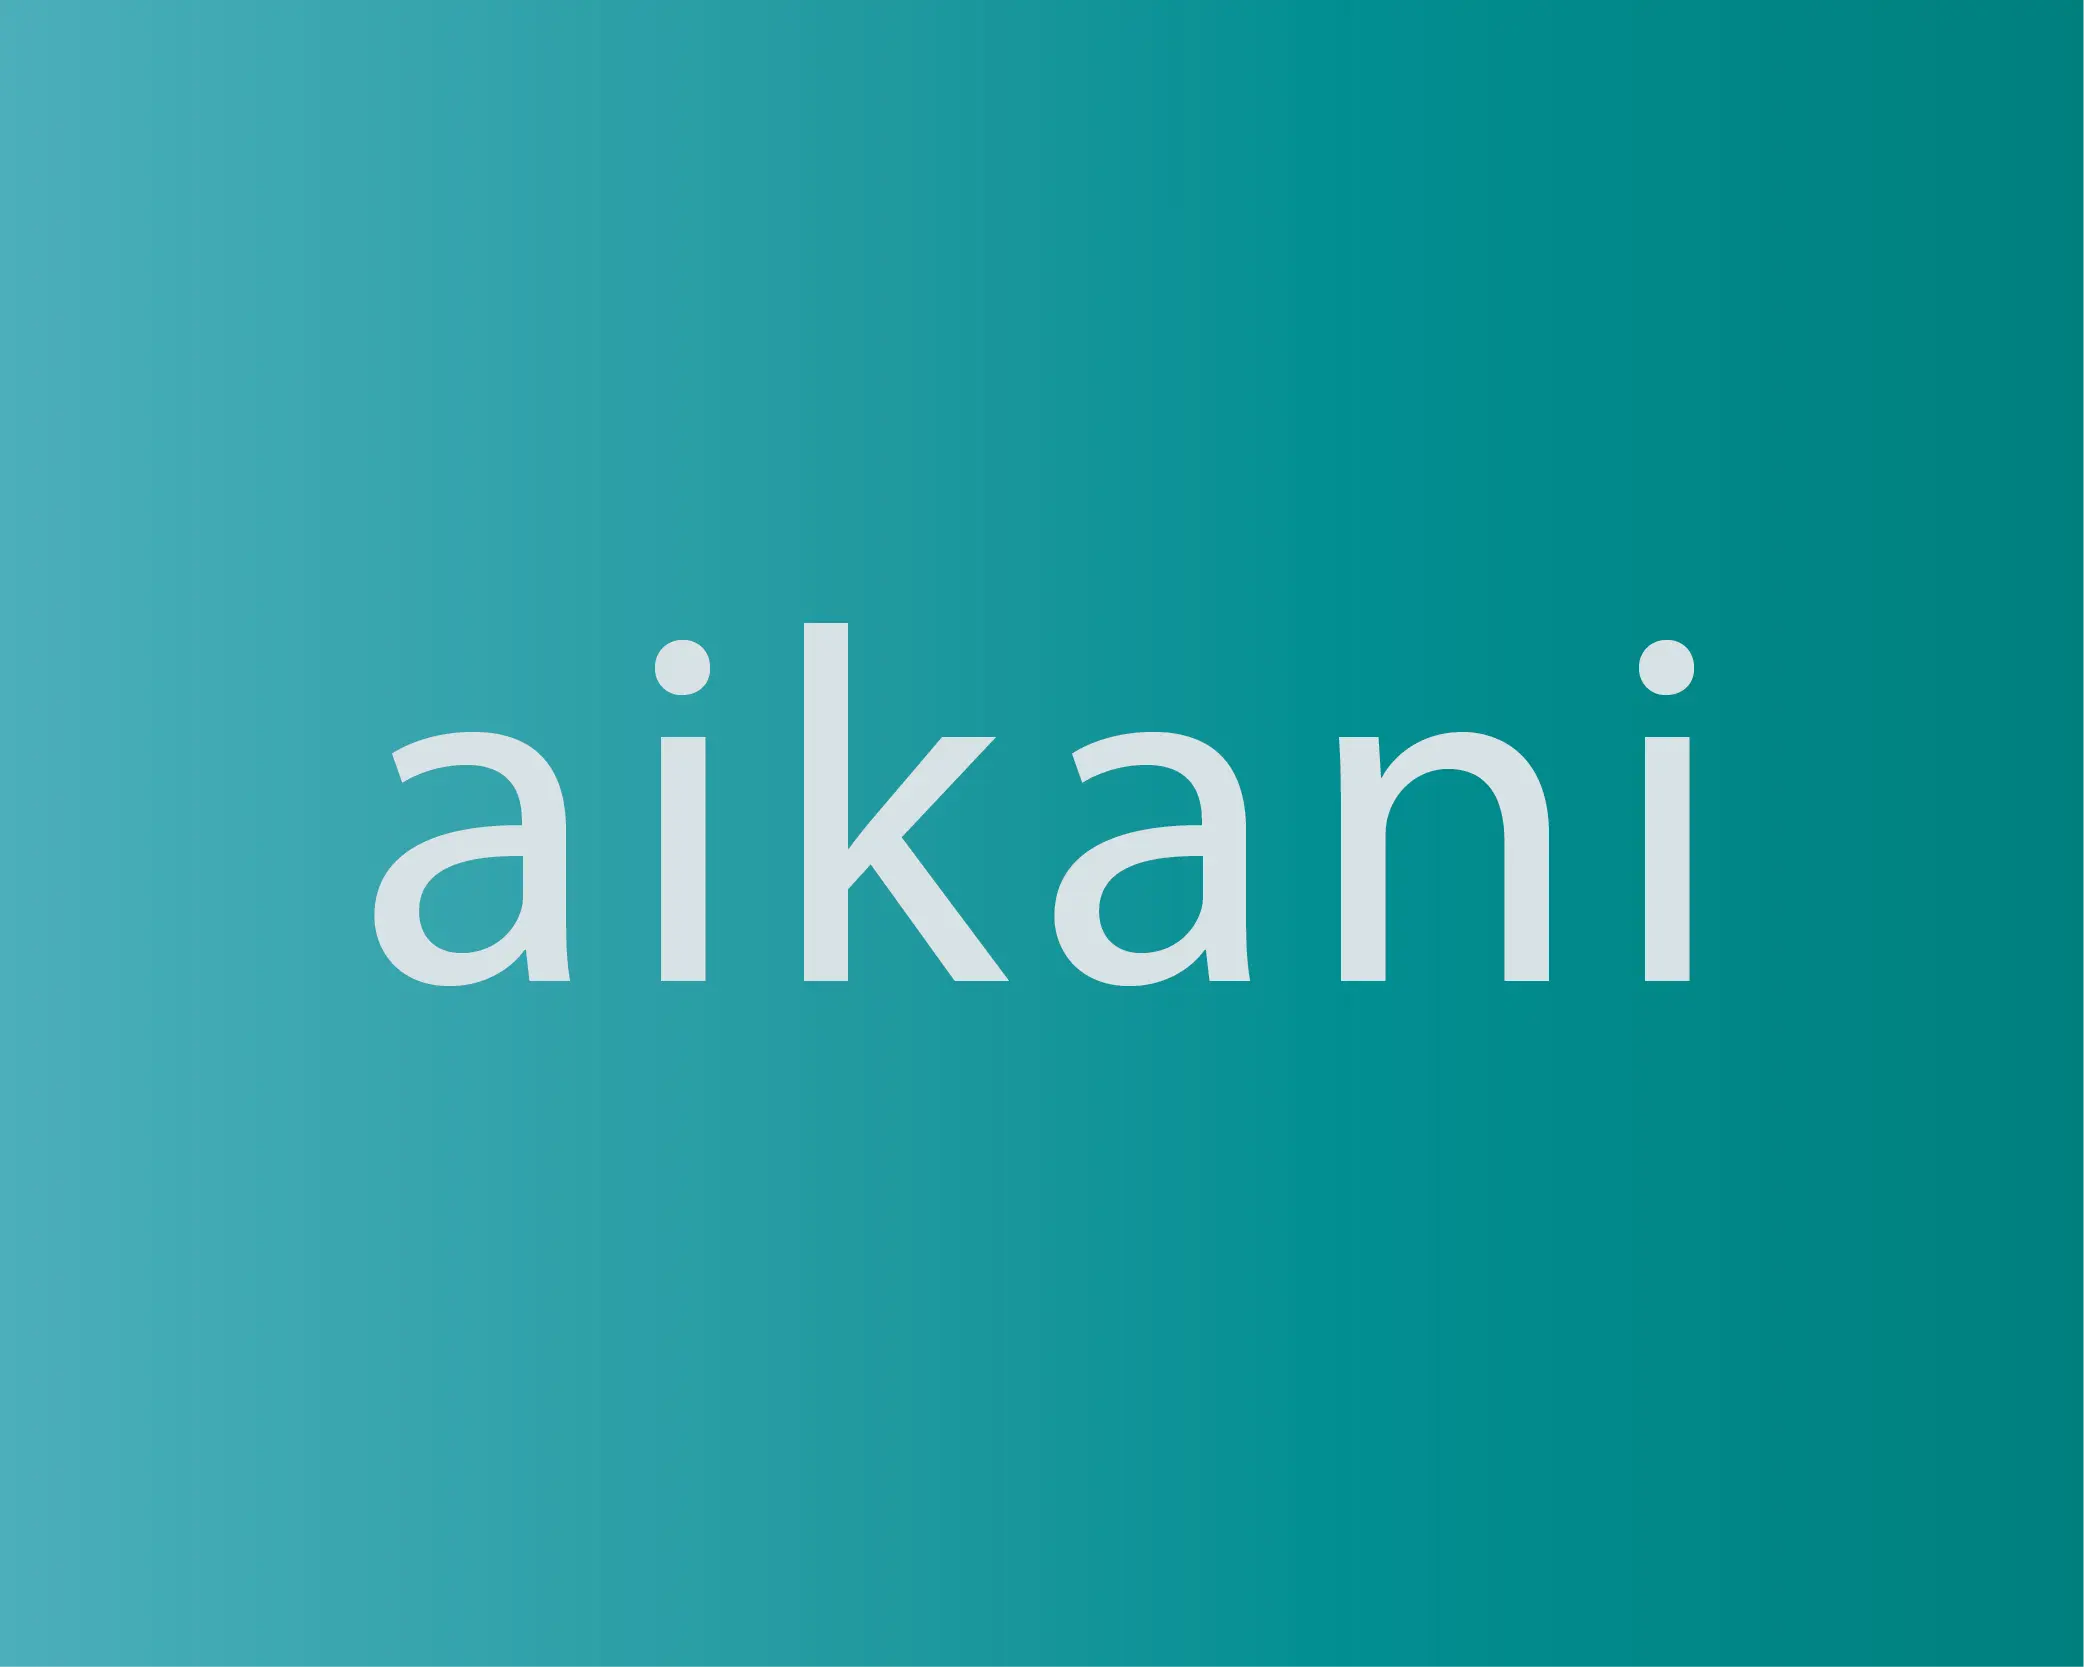
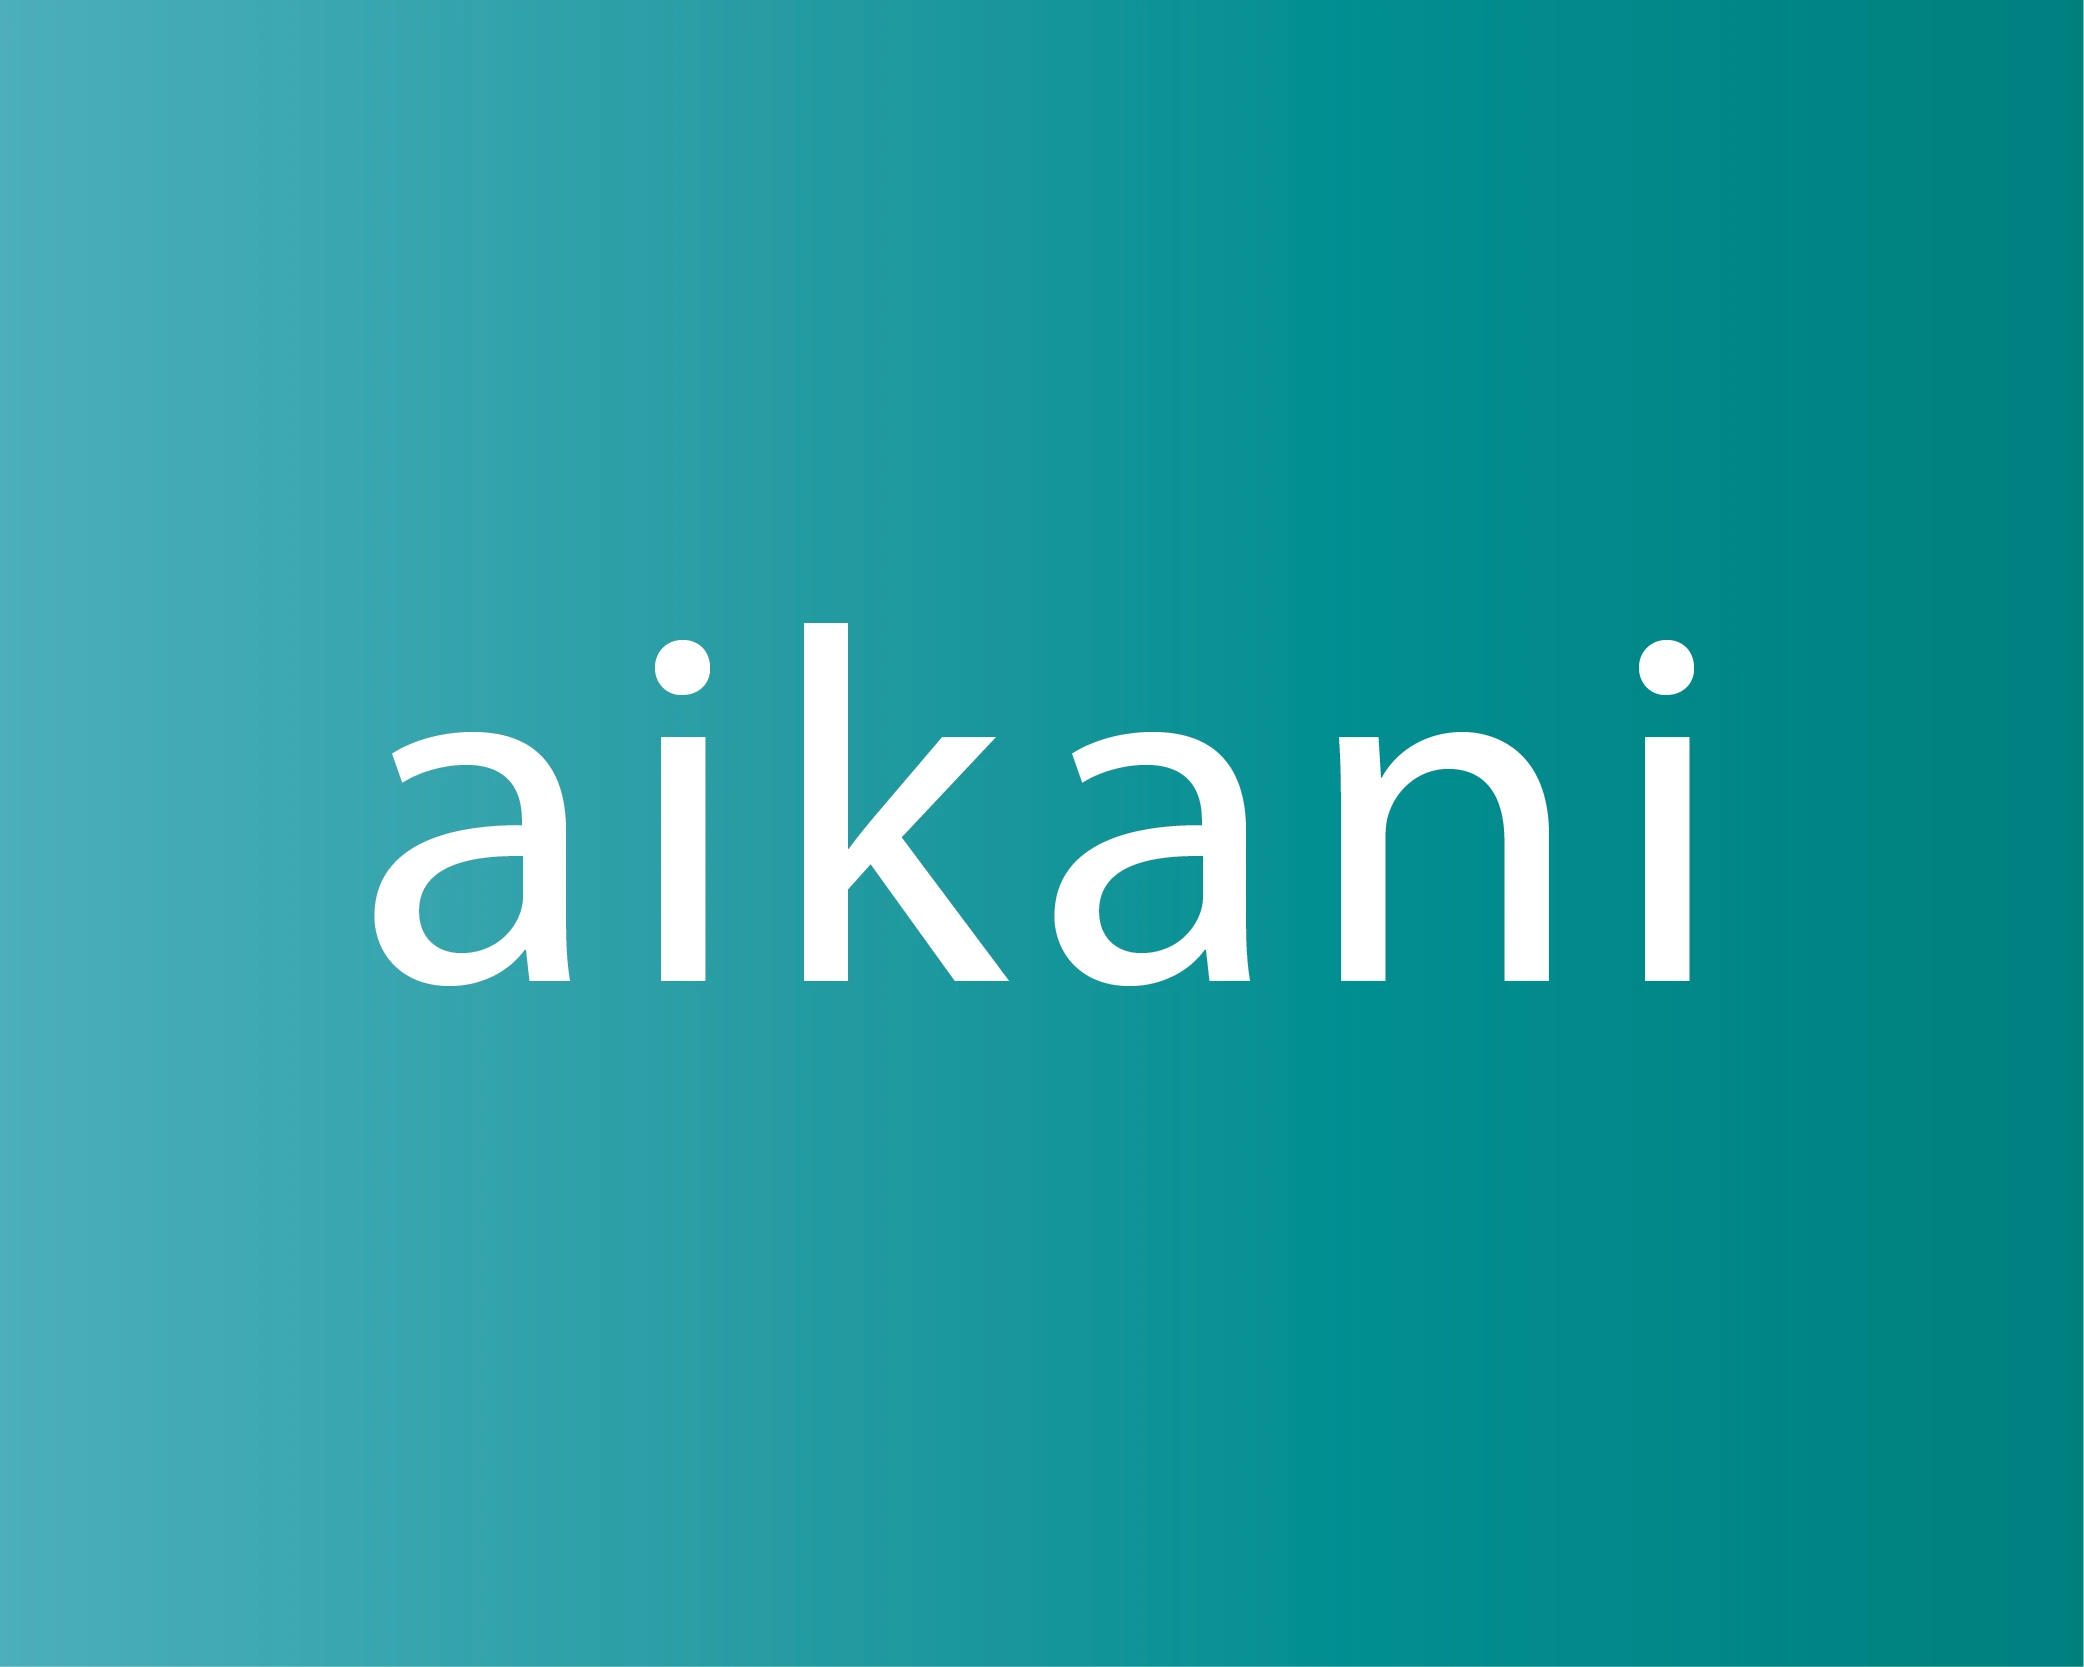
img update

diff --git a/index.html b/index.html
@@ -205,7 +205,7 @@
           <li>
             <a href="projects/mentalink.html" class="case-study-card">
               <div class="card-image">
-                <img src="img/Mentalink_logo.avif" alt="Mentalink-logo" width="400" height="300" loading="lazy" />
+                <img src="img/mentalink-brain-white-bg.webp" alt="Mentalink-logo" width="400" height="300" loading="lazy" />
               </div>
               <div class="card-content">
                 <h3>Mentalink</h3>
@@ -221,7 +221,7 @@
           <li>
             <a href="projects/makroni.html" class="case-study-card">
               <div class="card-image">
-                <img src="img/vitte.webp" alt="Makroni meal macro builder app interface" width="400" height="300" loading="lazy" />
+                <img src="img/react-white-bg.webp" alt="Makroni meal macro builder app interface" width="400" height="300" loading="lazy" />
               </div>
               <div class="card-content">
                 <h3>Makroni</h3>
@@ -237,7 +237,7 @@
           <li>
             <a href="projects/aikani.html" class="case-study-card">
               <div class="card-image">
-                <img src="img/aikani_mockup.avif" alt="Aikani companion app mockup" width="400" height="300" loading="lazy" />
+                <img src="img/aikani.webp" alt="Aikani companion app mockup" width="400" height="300" loading="lazy" />
               </div>
               <div class="card-content">
                 <h3>Aikani</h3>
@@ -253,7 +253,7 @@
           <li>
             <a href="projects/uxres.html" class="case-study-card">
               <div class="card-image">
-                <img src="img/uxresearch.avif" alt="User experience research visualisation" width="400" height="300" loading="lazy" />
+                <img src="img/research-white-bg.webp" alt="User experience research visualisation" width="400" height="300" loading="lazy" />
               </div>
               <div class="card-content">
                 <h3>User Experience Research</h3>
@@ -269,7 +269,7 @@
           <li>
             <a href="projects/logodesign.html" class="case-study-card">
               <div class="card-image">
-                <img src="img/logokuvat.avif" alt="Logo design portfolio collage" width="400" height="300" loading="lazy" />
+                <img src="img/logo-desing-white-bg.webp" alt="Logo design portfolio collage" width="400" height="300" loading="lazy" />
               </div>
               <div class="card-content">
                 <h3>Logo Design</h3>
@@ -285,7 +285,7 @@
           <li>
             <a href="projects/figma.html" class="case-study-card">
               <div class="card-image">
-                <img src="img/figma_logo.svg" alt="Figma logo" width="400" height="300" loading="lazy" />
+                <img src="img/figma-logo-white-bg.webp" alt="Figma logo" width="400" height="300" loading="lazy" />
               </div>
               <div class="card-content">
                 <h3>Figma Files</h3>
